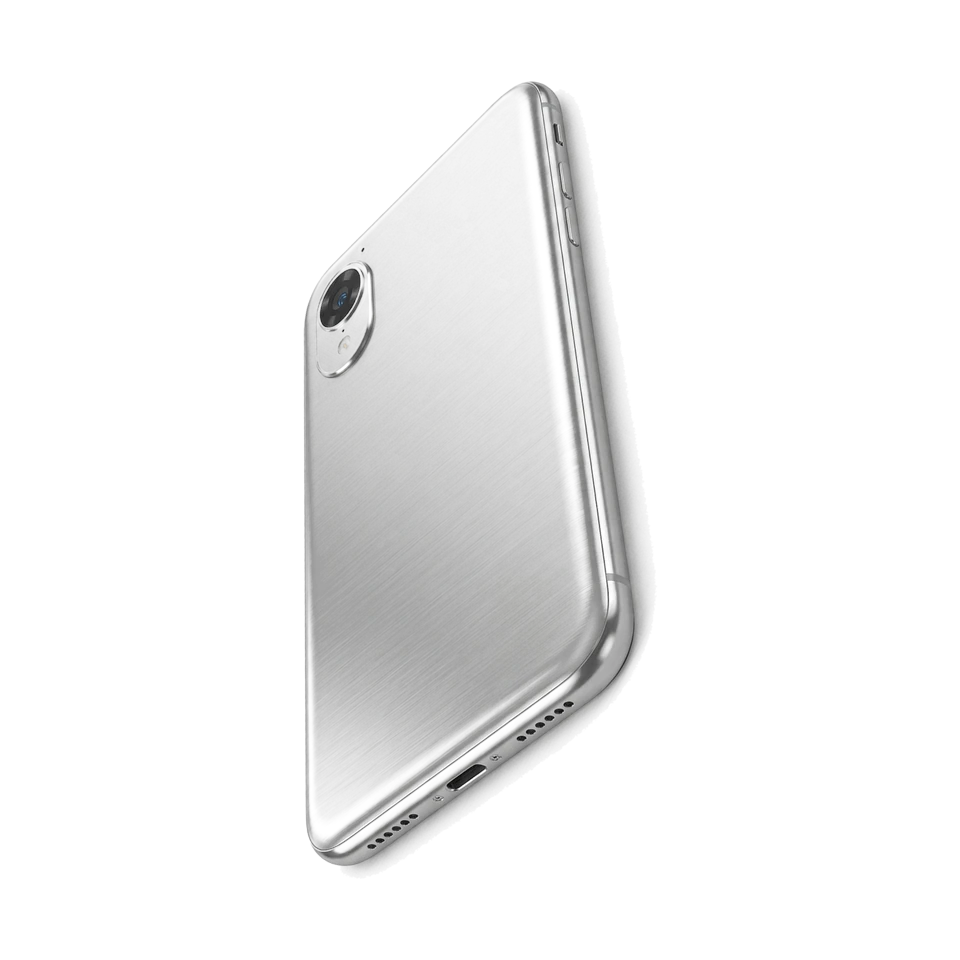
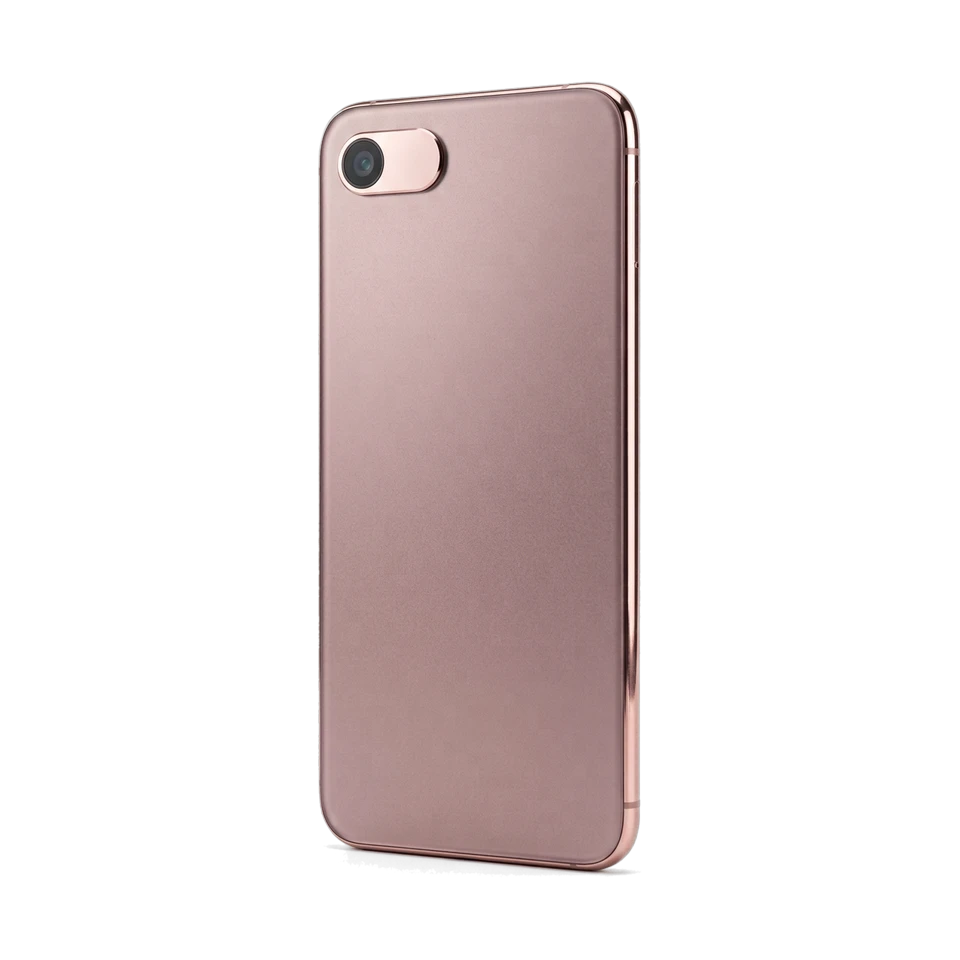
v0.72.2 — iPhone 18 как настоящий: фотореалистичные спинки, основной цвет линейки — бордовый

Changed region(s): [[0.3125, 0.0625, 0.6875, 0.9375]]

diff --git a/src/engine/shop.ts b/src/engine/shop.ts
@@ -145,10 +145,10 @@ export const SHOP_ITEMS: ShopItem[] = [
   // Современная электроника остаётся на полке «Телефоны».
   { id: 'phone-pro', slot: 'toy', kind: 'toy', toy: 'phone', emoji: '📱', title: 'iPhone 17 Pro', desc: 'Глубокий синий металл и три камеры. Нажми на телефон, чтобы повернуть', price: 75 },
   // ── 0.72.0: линейка iPhone 18 ────────────────────────────────────────────
-  { id: 'phone-18', slot: 'toy', kind: 'toy', toy: 'phone', emoji: '📱', title: 'iPhone 18', desc: 'Новая линейка: яркий экран и две камеры. Нажми, чтобы повернуть', price: 85 },
-  { id: 'phone-18-air', slot: 'toy', kind: 'toy', toy: 'phone', emoji: '📱', title: 'iPhone 18 Air', desc: 'Самый тонкий в линейке: невесомый корпус и одна камера', price: 95 },
-  { id: 'phone-18-pro', slot: 'toy', kind: 'toy', toy: 'phone', emoji: '📱', title: 'iPhone 18 Pro', desc: 'Титановый корпус и три камеры. Нажми, чтобы повернуть', price: 120 },
-  { id: 'phone-18-max', slot: 'toy', kind: 'toy', toy: 'phone', emoji: '📱', title: 'iPhone 18 Pro Max', desc: 'Самый большой экран линейки и лучшая камера', price: 140 },
+  { id: 'phone-18', slot: 'toy', kind: 'toy', toy: 'phone', emoji: '📱', title: 'iPhone 18', desc: 'Новая бордовая линейка: глянцевое стекло и две камеры. Нажми, чтобы повернуть', price: 85 },
+  { id: 'phone-18-air', slot: 'toy', kind: 'toy', toy: 'phone', emoji: '📱', title: 'iPhone 18 Air', desc: 'Самый тонкий в линейке: светло-бордовый корпус и одна камера', price: 95 },
+  { id: 'phone-18-pro', slot: 'toy', kind: 'toy', toy: 'phone', emoji: '📱', title: 'iPhone 18 Pro', desc: 'Бордовый титановый корпус и три камеры. Нажми, чтобы повернуть', price: 120 },
+  { id: 'phone-18-max', slot: 'toy', kind: 'toy', toy: 'phone', emoji: '📱', title: 'iPhone 18 Pro Max', desc: 'Тёмно-бордовый гигант: самый большой экран линейки и лучшая камера', price: 140 },
   { id: 'laptop-air', slot: 'toy', kind: 'toy', toy: 'phone', emoji: '💻', title: 'Невесомый Air', desc: 'Тонкий серебристый ноутбук: настоящие клавиши, большой трекпад и яркий экран', price: 110 },
   { id: 'tv-cinema', slot: 'toy', kind: 'toy', toy: 'phone', emoji: '📺', title: 'Домашний кинотеатр', desc: 'Большой телевизор с тонкой рамкой: горное озеро на экране как живое', price: 95 },
   { id: 'headphones-max', slot: 'toy', kind: 'toy', toy: 'phone', emoji: '🎧', title: 'Серебряный Max', desc: 'Наушники в стиле Apple: сетчатое оголовье, мягкие амбушюры и металлические чашки', price: 65 },

diff --git a/src/engine/tints.ts b/src/engine/tints.ts
@@ -557,7 +557,7 @@ export const TINT_PALETTES: Record<string, TintPalette<ItemTint>> = {
     ],
   },
   'phone-18': {
-    base: { id: BASE_TINT, title: 'Голубой', colors: ['#7cc6ff', '#334155', '#e0f2fe'] },
+    base: { id: BASE_TINT, title: 'Бордовый', colors: ['#8e2434', '#5f1220', '#f3c1c9'] },
     extra: [
       { id: 'pink', title: 'Розовый', colors: ['#ff8fb8', '#d94f7e', '#ffeef5'] },
       { id: 'black', title: 'Чёрный', colors: ['#475569', '#1e293b', '#e2e8f0'] },
@@ -565,7 +565,7 @@ export const TINT_PALETTES: Record<string, TintPalette<ItemTint>> = {
     ],
   },
   'phone-18-air': {
-    base: { id: BASE_TINT, title: 'Серебристый', colors: ['#e2e8f0', '#94a3b8', '#ffffff'] },
+    base: { id: BASE_TINT, title: 'Светло-бордовый', colors: ['#b5546a', '#7e2a3c', '#ffe3ea'] },
     extra: [
       { id: 'pink', title: 'Розовый', colors: ['#ff8fb8', '#d94f7e', '#ffeef5'] },
       { id: 'sky', title: 'Голубой', colors: ['#7cc6ff', '#3f8fd9', '#e0f2fe'] },
@@ -573,7 +573,7 @@ export const TINT_PALETTES: Record<string, TintPalette<ItemTint>> = {
     ],
   },
   'phone-18-pro': {
-    base: { id: BASE_TINT, title: 'Титан', colors: ['#78716c', '#44403c', '#f97316'] },
+    base: { id: BASE_TINT, title: 'Тёмный бордо', colors: ['#6d1220', '#3f0a13', '#e8a0a8'] },
     extra: [
       { id: 'black', title: 'Чёрный', colors: ['#475569', '#1e293b', '#e2e8f0'] },
       { id: 'sky', title: 'Голубой', colors: ['#7cc6ff', '#3f8fd9', '#e0f2fe'] },
@@ -581,7 +581,7 @@ export const TINT_PALETTES: Record<string, TintPalette<ItemTint>> = {
     ],
   },
   'phone-18-max': {
-    base: { id: BASE_TINT, title: 'Глубокий синий', colors: ['#1e3a8a', '#0f172a', '#93c5fd'] },
+    base: { id: BASE_TINT, title: 'Винный', colors: ['#57101d', '#2e0810', '#d98c96'] },
     extra: [
       { id: 'black', title: 'Чёрный', colors: ['#475569', '#1e293b', '#e2e8f0'] },
       { id: 'violet', title: 'Сиреневый', colors: ['#c4a2ff', '#8f6ae0', '#f3e8ff'] },

diff --git a/tests/shop-tuning.test.ts b/tests/shop-tuning.test.ts
@@ -108,10 +108,10 @@ const EXPECTED_TOY_BASE: Record<string, [string, string, string]> = {
   'ship-sail': ['#183b63', '#202b3b', '#ef673c'],
   'ship-steam': ['#164b4c', '#203b3b', '#c6813d'],
   'ship-carrier': ['#59616a', '#252b34', '#e5b849'],
-  'phone-18': ['#7cc6ff', '#334155', '#e0f2fe'],
-  'phone-18-air': ['#e2e8f0', '#94a3b8', '#ffffff'],
-  'phone-18-pro': ['#78716c', '#44403c', '#f97316'],
-  'phone-18-max': ['#1e3a8a', '#0f172a', '#93c5fd'],
+  'phone-18': ['#8e2434', '#5f1220', '#f3c1c9'],
+  'phone-18-air': ['#b5546a', '#7e2a3c', '#ffe3ea'],
+  'phone-18-pro': ['#6d1220', '#3f0a13', '#e8a0a8'],
+  'phone-18-max': ['#57101d', '#2e0810', '#d98c96'],
   'car-pink-cabrio': ['#ff8fb8', '#d94f7e', '#fff1f6'],
   'car-pink-star': ['#ff6fb5', '#c2185b', '#ffd166'],
   'car-tesla': ['#1d4ed8', '#0b1220', '#e2e8f0'],

diff --git a/docs/RELEASE-0.72.2.md b/docs/RELEASE-0.72.2.md
@@ -1,0 +1,15 @@
+# 0.72.2 — iPhone 18: как настоящий, основной цвет — бордовый
+
+По просьбе «сделай 18 айфон более похожим на настоящий и сделай основным цветом 18 линейки бордовый».
+
+## Что изменено
+
+- **Вся линейка iPhone 18 перегенерирована в фотореалистичном стиле настоящего флагмана**: стеклянные спинки с настоящими отражениями, полированные металлические рамки, крупные модули камер-плато в левом верхнем углу, вспышки и сенсоры — вместо прежних мультяшных 3D-спинок 0.72.1.
+- **Основной цвет линейки — бордовый**, у каждой модели свой оттенок: iPhone 18 — глянцевый бордовый (две камеры), 18 Air — светло-бордовый, самый тонкий, с одной камерой в «пилюле», 18 Pro — матовый тёмный бордо-титан (три камеры), 18 Pro Max — самый тёмный винный глянец (три камеры).
+- Диагональные исходники Air и Pro Max не выравнивались поворотом без потери «настоящести», поэтому Air и Pro Max сгенерированы заново сразу в вертикальной ориентации; силуэты всех четырёх спинок стоят вертикально (960×960, прозрачный фон, посадка как у остальных телефонов, маска перекраски работает).
+- **Базовые палитры перекраски** линейки теперь бордовые («Бордовый», «Светло-бордовый», «Тёмный бордо», «Винный») — магазинный тюнинг по умолчанию красит в цвет картинки; описания моделей в каталоге обновлены под новый цвет. Прежние цвета остались доступны дополнительными оттенками палитр.
+
+## Проверки
+
+- `npm run typecheck`, `npm run test:adaptive`, `npm run test:smoke` — зелёные.
+- `npm run test:release`, `npm run release:check` (0.72.1 → 0.72.2), `npm run build`, `npm run test:boot` — зелёные.
